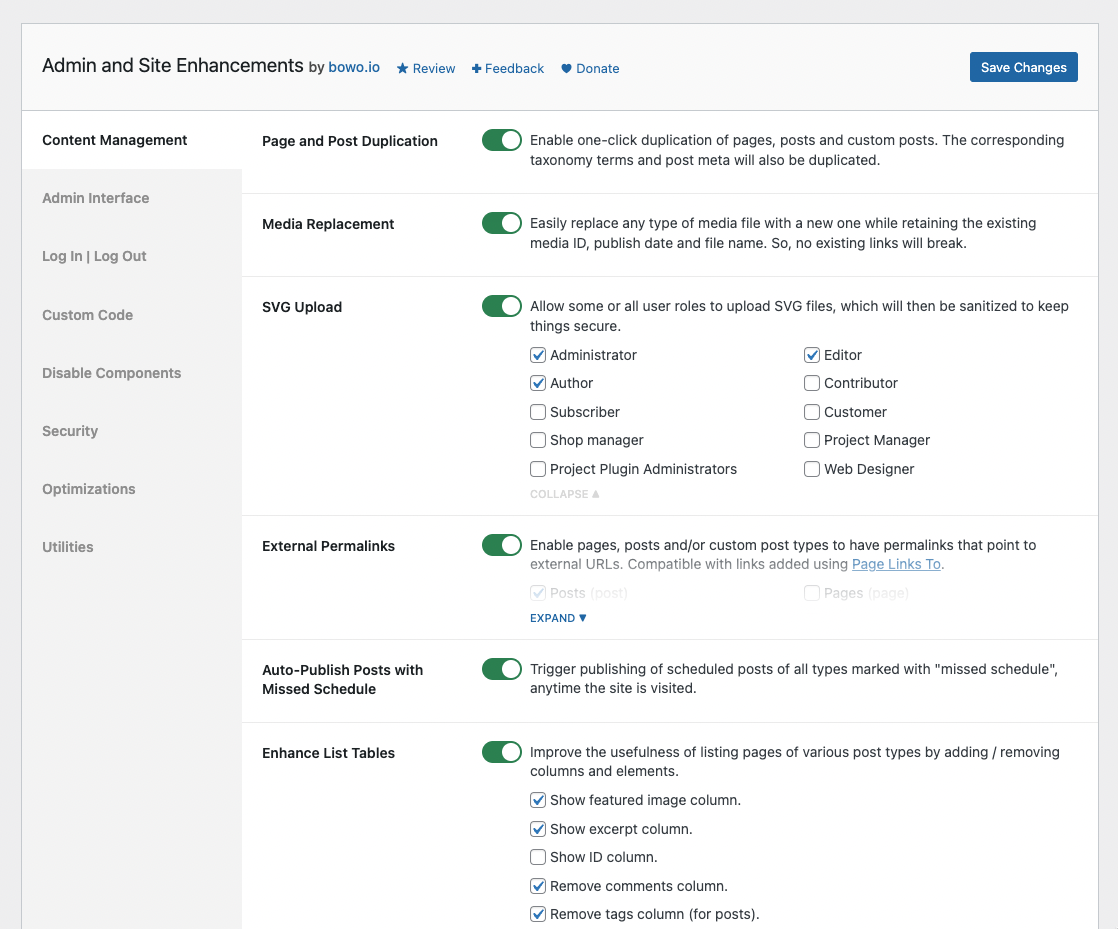
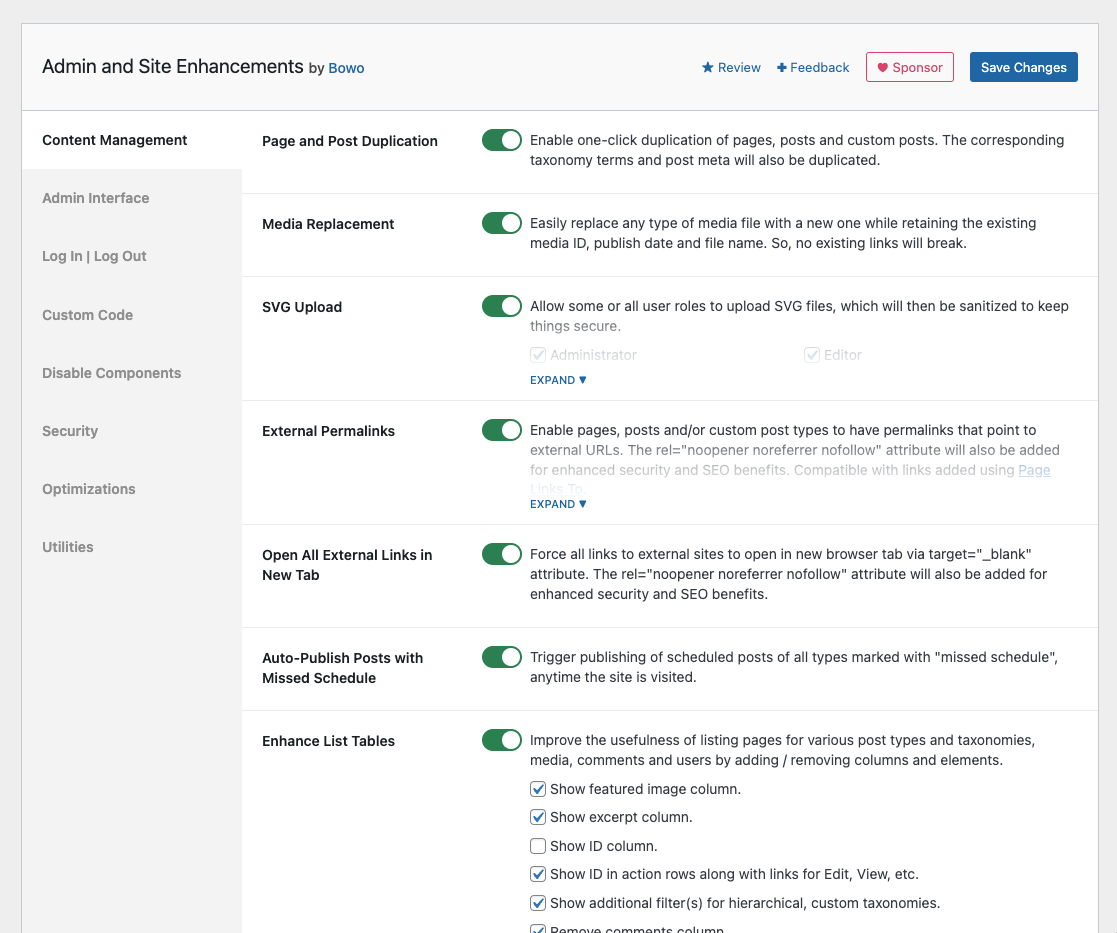
v4.9.0 release

diff --git a/admin-site-enhancements.php b/admin-site-enhancements.php
@@ -4,7 +4,7 @@
  * Plugin Name:       Admin and Site Enhancements
  * Plugin URI:        https://wordpress.org/plugins/admin-site-enhancements/
  * Description:       Easily enable enhancements and features that usually require multiple plugins.
- * Version:           4.8.3
+ * Version:           4.9.0
  * Author:            Bowo
  * Author URI:        https://bowo.io
  * License:           GPL-2.0+
@@ -18,7 +18,7 @@ if ( ! defined( 'ABSPATH' ) ) {
 	exit;
 }
 
-define( 'ASENHA_VERSION', '4.8.3' );
+define( 'ASENHA_VERSION', '4.9.0' );
 define( 'ASENHA_ID', 'asenha' );
 define( 'ASENHA_SLUG', 'admin-site-enhancements' );
 define( 'ASENHA_SLUG_U', 'admin_site_enhancements' );

diff --git a/README.md b/README.md
@@ -5,7 +5,7 @@ Donate link: https://paypal.me/qriouslad
 Tags: enhancements, tweaks, optimizations, tools  
 Requires at least: 4.6  
 Tested up to: 6.2  
-Stable tag: 4.8.3  
+Stable tag: 4.9.0  
 Requires PHP: 5.6  
 License: GPLv2 or later  
 License URI: http://www.gnu.org/licenses/gpl-2.0.html
@@ -24,20 +24,31 @@ _"**Full of useful features**, works without problems."_ ~[Krzysztof Płaneta](h
 
 _"Amazing **how many separate plugins this replaces**!"_ ~[@yudayuda](https://wordpress.org/support/topic/amazing-how-many-separate-plugins-this-replaces/)
 
+_"**This plugin is what I have been waiting for to see for years!**"_ ~[@AlexGraphicD](https://wordpress.org/support/topic/amazing-swiss-army-tool-for-wordpress/)
+
 _"I really love how this plugin incorporates **so many small fixes or tweaks** that are needed with WordPress - I can now get rid of many other plugins."_ ~[Dale Reardon](https://wordpress.org/support/topic/fantastic-plugin-replacing-many-other-plugins/)
 
 _"This plugin allows you to install and maintain **one plugin instead of a host of smaller ones**. My tests were all successful and I was happy to simplify my maintenance with fewer plugins."_ ~[Vic Drover](https://wordpress.org/support/topic/replaced-4-plugins-worked-well-a/)
 
+_"**It’s worth 10 stars (or more)**. This plugin eliminates the need to install many other plugins and also **makes functions.php smaller** since I have to insert fewer code snippets."_ ~[Angelika Reisiger](https://wordpress.org/support/topic/its-worth-10-stars-or-more/)
+
+_"**I was super skeptical** that this plugin could do so much without any problems, **but I was wrong... 100% recommended!**"_ ~[@scarlywebs](https://wordpress.org/support/topic/the-all-in-one-plugin-you-need-in-your-arsenal/)
+
 _"Normally, I tend to steer clear of “all-in-one” plugins; however, I believe that the **selection of tools** incorporated into this plugin has been astutely deliberated, given that it **nearly aligns entirely with the options I typically apply to each website**."_ ~[@cvladan](https://wordpress.org/support/topic/excellent-features-selection/)
 
 _"\[This\] is a Swiss Army Knife in terms of features that will **keep your WordPress clean and optimal**."_ ~[@samirhp](https://wordpress.org/support/topic/there-are-no-words-just-amazing/)
+
+_"**Incredibly powerful and well organized**. It’s a real accomplishment to put this many features into a plugin and still make it easy to navigate."_ ~[Nathan Ingram](https://wordpress.org/support/topic/holy-cow-this-is-excellent/)
+
+_"**Greatest plugin ever**."_ ~[@angelaustr](https://wordpress.org/support/topic/greatest-plugin-ever-11/)
 
 ### Content Management
 
 * **Page and Post Duplication**. Enable one-click duplication of pages, posts and custom posts. The corresponding taxonomy terms and post meta will also be duplicated.
 * **Media Replacement**. Easily replace any type of media file with a new one while retaining the existing media ID, publish date and file name. So, no existing links will break.
 * **SVG Upload**. Allow some or all user roles to upload SVG files, which will then be sanitized to keep things secure.
-* **External Permalinks**. Enable pages, posts and/or custom post types to have permalinks that point to external URLs. Compatible with links added using [Page Links To](https://wordpress.org/plugins/page-links-to/).
+* **External Permalinks**. Enable pages, posts and/or custom post types to have permalinks that point to external URLs. The rel="noopener noreferrer nofollow" attribute will also be added for enhanced security and SEO benefits. Compatible with links added using [Page Links To](https://wordpress.org/plugins/page-links-to/).
+* **Open All External Links in New Tab**. Force all links to external sites to open in new browser tab via target="\_blank" attribute. The rel="noopener noreferrer nofollow" attribute will also be added for enhanced security and SEO benefits.
 * **Auto-Publish Posts with Missed Schedule**. Trigger publishing of scheduled posts of all types marked with "missed schedule", anytime the site is visited.
 * **Enhance List Tables**. Improve the usefulness of listing pages of various post types by adding / removing columns and elements.
   * _Show the featured image column_: in the list tables for pages and post types that support featured images.
@@ -130,6 +141,7 @@ Admin and Site Enhancements will include more enhancements, tweaks and useful fe
 * [Variable Inspector](https://wordpress.org/plugins/variable-inspector/): Inspect PHP variables on a central dashboard in wp-admin for convenient debugging.
 * [Code Explorer](https://wordpress.org/plugins/code-explorer/): Fast directory explorer and file/code viewer with syntax highlighting.
 * [Flexible Scroll Top](https://wordpress.org/plugins/flexible-scroll-top/) and [Floating Share Buttons](https://wordpress.org/plugins/floating-share-button/) is a lightweight combo with minimalist UI.
+* [WordPress Newsboard](https://www.wpnewsboard.com/): The latest news, articles, podcasts and videos from 100+ WordPress-focused sources.
 
 ## Screenshots
 
@@ -158,9 +170,14 @@ Hoping that this is useful in reducing the number of plugins we install the firs
 
 ## Changelog
 
+### 4.9.0 (2023.04.16)
+
+* **[ENHANCEMENT] Content Management >> External Permalinks**. The rel="noopener noreferrer nofollow" attribute will now be added to external permalinks for enhanced security and SEO benefits. 
+* **[ADDED] Content Management >> Open All External Links in New Tab**. Force all links to external sites to open in new browser tab via target="\_blank" attribute. The rel="noopener noreferrer nofollow" attribute will also be added for enhanced security and SEO benefits.
+
 ### 4.8.3 (2023.04.15)
 
-* **[FIXED] Content Management >> Page and Post Duplication**: fixed isses when duplicating complex pages built with Oxygen builder. May also solve similar issues with other page builder. Please try this on your page builder installation and report in the forum if you're still experiencing issues.
+* **[FIXED] Content Management >> Page and Post Duplication**: fixed isses when duplicating pages built with Oxygen and Bricks builder. May also solve similar issues with other page builders. Please try this on your page builder installation and report in the forum if you're still experiencing issues.
 * Added button linking to [my Github sponsorship](https://bowo.io/dotorg-sponsor-asenha) page. Please consider supporting the continued development and maintenance of this, and my other plugins. Thank you!
 
 ### 4.8.2 (2023.04.03)
